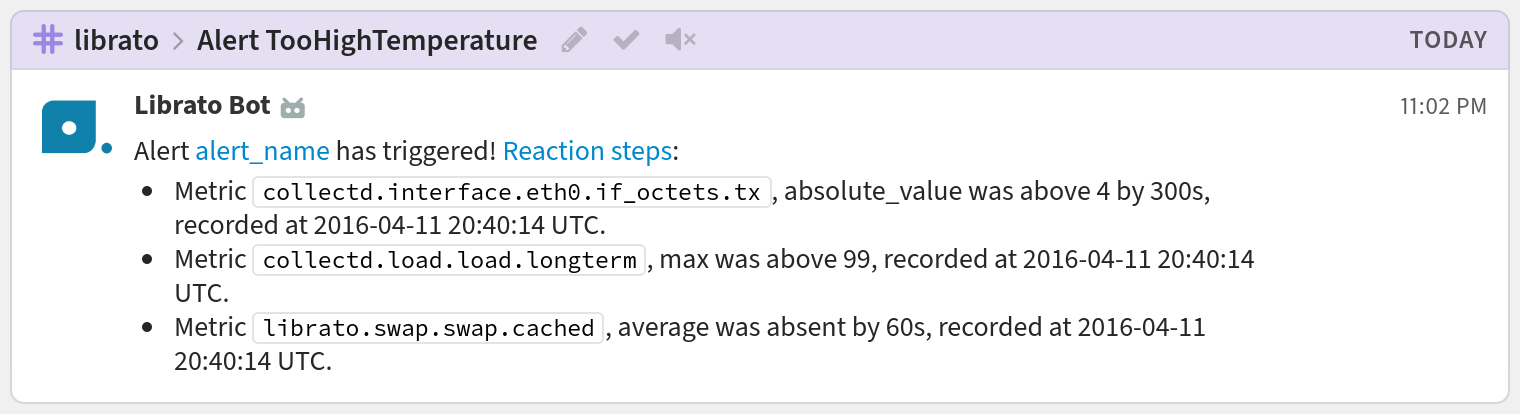
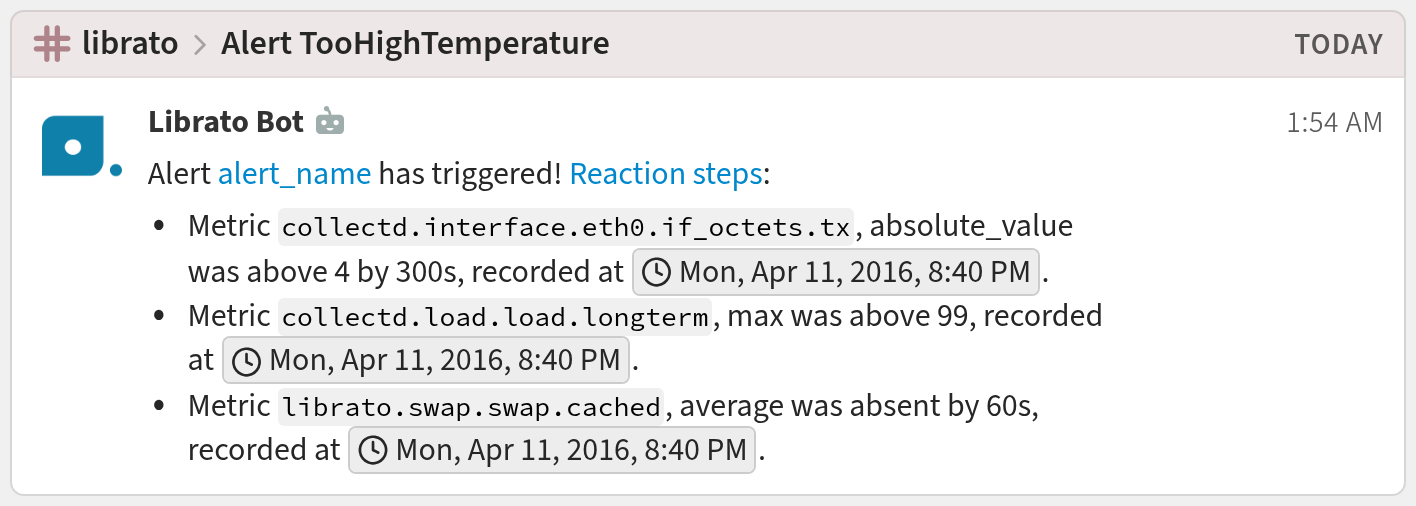
integrations/librato: Use global time.

diff --git a/zerver/webhooks/librato/tests.py b/zerver/webhooks/librato/tests.py
@@ -21,7 +21,7 @@ class LibratoHookTests(WebhookTestCase):
 
     def test_alert_message_with_default_topic(self) -> None:
         expected_topic_name = "Alert alert.name"
-        expected_message = "Alert [alert_name](https://metrics.librato.com/alerts#/6294535) has triggered! [Reaction steps](http://www.google.pl):\n * Metric `librato.cpu.percent.idle`, sum was below 44 by 300s, recorded at 2016-03-31 09:11:42 UTC.\n * Metric `librato.swap.swap.cached`, average was absent  by 300s, recorded at 2016-03-31 09:11:42 UTC.\n * Metric `librato.swap.swap.cached`, derivative was above 9 by 300s, recorded at 2016-03-31 09:11:42 UTC."
+        expected_message = "Alert [alert_name](https://metrics.librato.com/alerts#/6294535) has triggered! [Reaction steps](http://www.google.pl):\n * Metric `librato.cpu.percent.idle`, sum was below 44 by 300s, recorded at <time:2016-03-31 09:11:42 UTC>.\n * Metric `librato.swap.swap.cached`, average was absent  by 300s, recorded at <time:2016-03-31 09:11:42 UTC>.\n * Metric `librato.swap.swap.cached`, derivative was above 9 by 300s, recorded at <time:2016-03-31 09:11:42 UTC>."
         self.check_webhook(
             "alert",
             expected_topic_name,
@@ -32,7 +32,7 @@ class LibratoHookTests(WebhookTestCase):
     def test_alert_message_with_custom_topic(self) -> None:
         custom_topic_name = "custom_name"
         self.url = self.build_webhook_url(topic=custom_topic_name)
-        expected_message = "Alert [alert_name](https://metrics.librato.com/alerts#/6294535) has triggered! [Reaction steps](http://www.google.pl):\n * Metric `librato.cpu.percent.idle`, sum was below 44 by 300s, recorded at 2016-03-31 09:11:42 UTC.\n * Metric `librato.swap.swap.cached`, average was absent  by 300s, recorded at 2016-03-31 09:11:42 UTC.\n * Metric `librato.swap.swap.cached`, derivative was above 9 by 300s, recorded at 2016-03-31 09:11:42 UTC."
+        expected_message = "Alert [alert_name](https://metrics.librato.com/alerts#/6294535) has triggered! [Reaction steps](http://www.google.pl):\n * Metric `librato.cpu.percent.idle`, sum was below 44 by 300s, recorded at <time:2016-03-31 09:11:42 UTC>.\n * Metric `librato.swap.swap.cached`, average was absent  by 300s, recorded at <time:2016-03-31 09:11:42 UTC>.\n * Metric `librato.swap.swap.cached`, derivative was above 9 by 300s, recorded at <time:2016-03-31 09:11:42 UTC>."
         self.check_webhook(
             "alert",
             custom_topic_name,
@@ -41,7 +41,7 @@ class LibratoHookTests(WebhookTestCase):
         )
 
     def test_three_conditions_alert_message(self) -> None:
-        expected_message = "Alert [alert_name](https://metrics.librato.com/alerts#/6294535) has triggered! [Reaction steps](http://www.use.water.pl):\n * Metric `collectd.interface.eth0.if_octets.tx`, absolute_value was above 4 by 300s, recorded at 2016-04-11 20:40:14 UTC.\n * Metric `collectd.load.load.longterm`, max was above 99, recorded at 2016-04-11 20:40:14 UTC.\n * Metric `librato.swap.swap.cached`, average was absent  by 60s, recorded at 2016-04-11 20:40:14 UTC."
+        expected_message = "Alert [alert_name](https://metrics.librato.com/alerts#/6294535) has triggered! [Reaction steps](http://www.use.water.pl):\n * Metric `collectd.interface.eth0.if_octets.tx`, absolute_value was above 4 by 300s, recorded at <time:2016-04-11 20:40:14 UTC>.\n * Metric `collectd.load.load.longterm`, max was above 99, recorded at <time:2016-04-11 20:40:14 UTC>.\n * Metric `librato.swap.swap.cached`, average was absent  by 60s, recorded at <time:2016-04-11 20:40:14 UTC>."
         expected_topic_name = "Alert TooHighTemperature"
         self.check_webhook(
             "three_conditions_alert",
@@ -52,7 +52,7 @@ class LibratoHookTests(WebhookTestCase):
 
     def test_alert_clear(self) -> None:
         expected_topic_name = "Alert Alert_name"
-        expected_message = "Alert [alert_name](https://metrics.librato.com/alerts#/6309313) has cleared at 2016-04-12 13:11:44 UTC!"
+        expected_message = "Alert [alert_name](https://metrics.librato.com/alerts#/6309313) has cleared at <time:2016-04-12 13:11:44 UTC>!"
         self.check_webhook(
             "alert_cleared",
             expected_topic_name,

diff --git a/zerver/webhooks/librato/view.py b/zerver/webhooks/librato/view.py
@@ -97,7 +97,9 @@ class LibratoWebhookHandler(LibratoWebhookParser):
         return topic_template.format(alert_name=alert_name)
 
     def handle_alert_clear_message(self) -> str:
-        alert_clear_template = "Alert [alert_name]({alert_url}) has cleared at {trigger_time} UTC!"
+        alert_clear_template = (
+            "Alert [alert_name]({alert_url}) has cleared at <time:{trigger_time} UTC>!"
+        )
         trigger_time = datetime.fromtimestamp(
             self.payload["trigger_time"], tz=timezone.utc
         ).strftime("%Y-%m-%d %H:%M:%S")
@@ -155,7 +157,7 @@ class LibratoWebhookHandler(LibratoWebhookParser):
         )
         if duration:
             content += f" by {duration}s"
-        content += f", recorded at {recorded_at} UTC."
+        content += f", recorded at <time:{recorded_at} UTC>."
         return content
 
 
